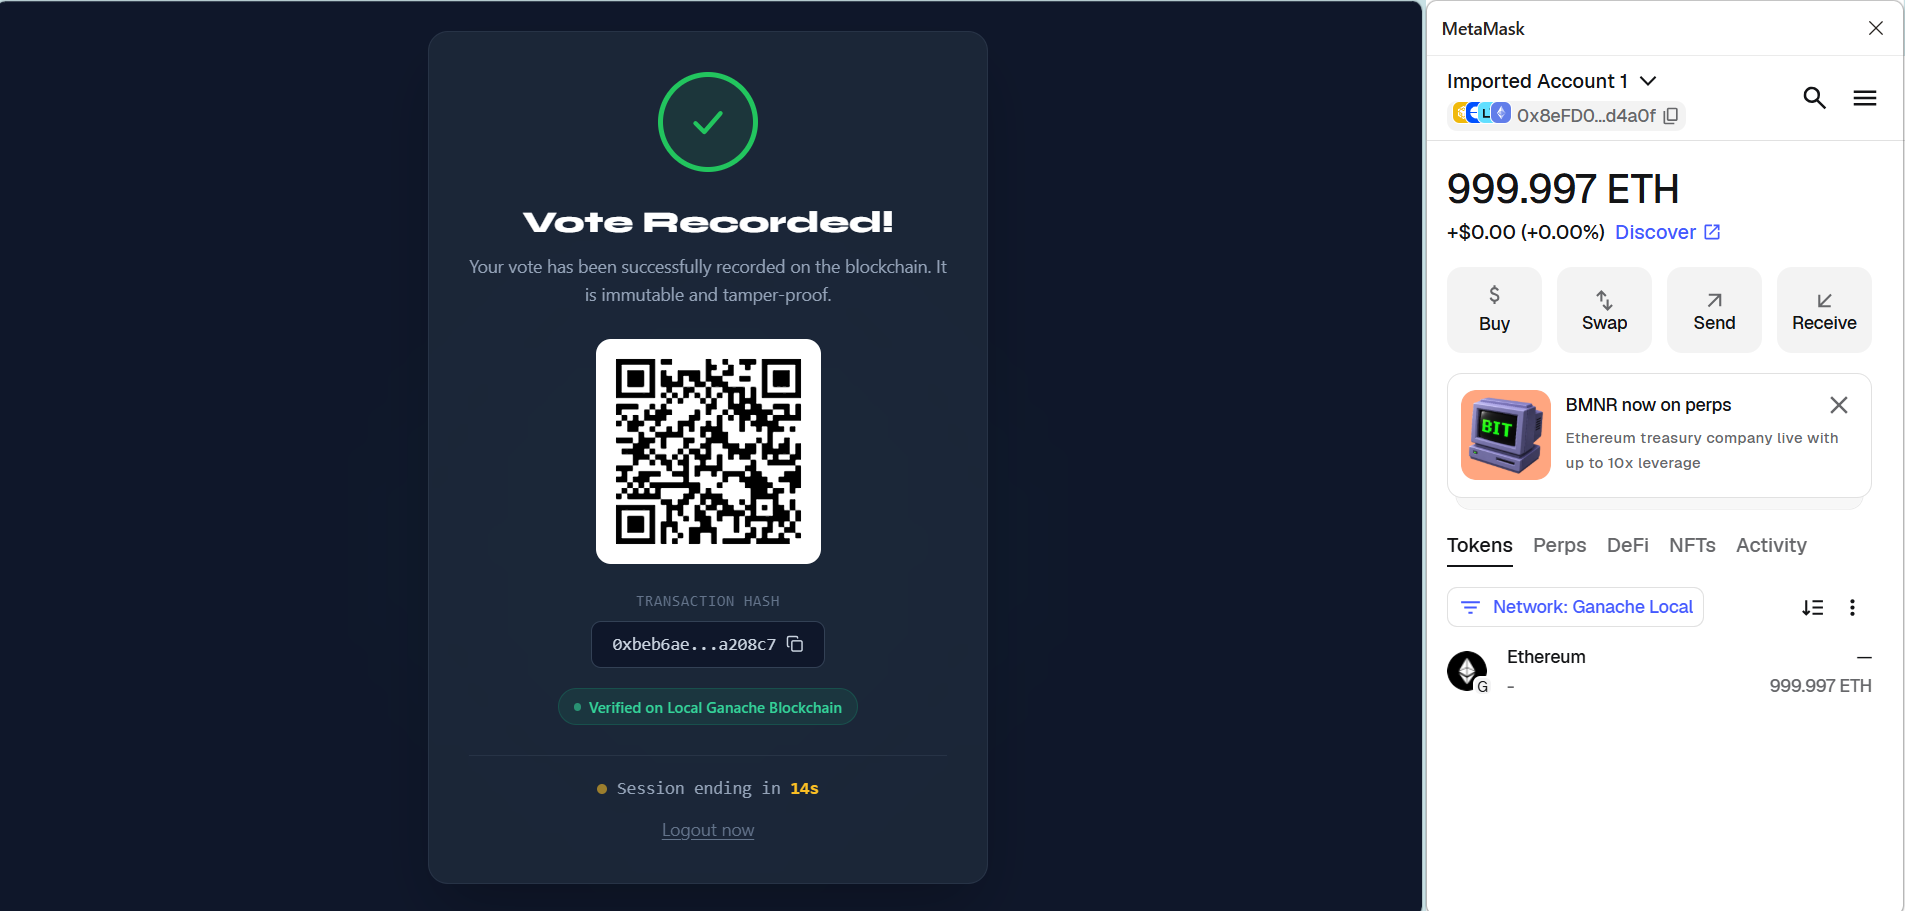
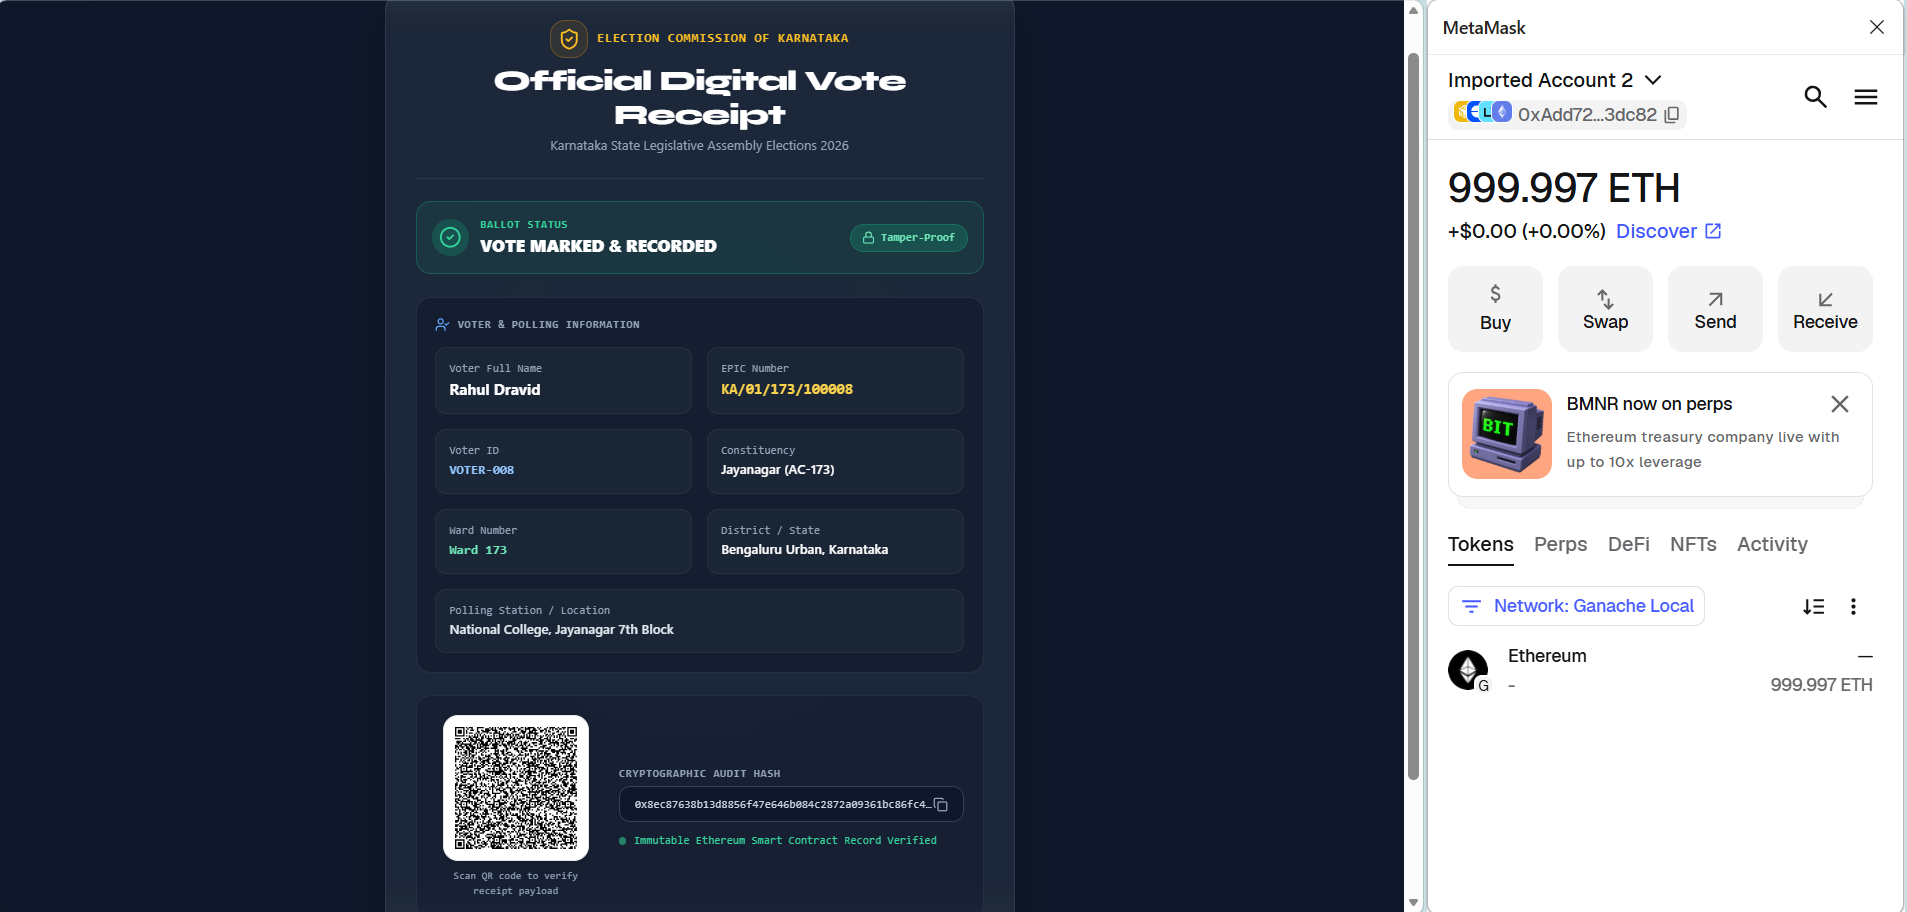
feat: implement voting and confirmation pages for ballot submission flow

diff --git a/voting-frontend/src/pages/ConfirmationPage.jsx b/voting-frontend/src/pages/ConfirmationPage.jsx
@@ -1,8 +1,9 @@
 import { useEffect, useState } from 'react';
 import { useNavigate, useLocation } from 'react-router-dom';
 import QRCode from 'react-qr-code';
-import { Copy, Check, ExternalLink } from 'lucide-react';
+import { Copy, Check, Printer, ShieldCheck, CheckCircle2, UserCheck, MapPin, Award, Building, Lock } from 'lucide-react';
 import toast from 'react-hot-toast';
+import api from '../services/api';
 import { useAuth } from '../context/AuthContext';
 import { truncateHash, copyToClipboard } from '../utils/helpers';
 
@@ -10,10 +11,24 @@ export default function ConfirmationPage() {
   const { state } = useLocation();
   const txHash = state?.txHash || 'N/A';
   const navigate = useNavigate();
-  const { logout } = useAuth();
+  const { logout, voterId } = useAuth();
 
-  const [countdown, setCountdown] = useState(30);
+  const [voterProfile, setVoterProfile] = useState(state?.voterProfile || null);
+  const [countdown, setCountdown] = useState(60);
   const [copied, setCopied] = useState(false);
+
+  useEffect(() => {
+    // If voterProfile was not passed in location state, fetch from backend
+    if (!voterProfile) {
+      api.get('/auth/me')
+        .then(res => {
+          if (res.data?.voter) {
+            setVoterProfile(res.data.voter);
+          }
+        })
+        .catch(err => console.error('Failed to fetch profile for receipt:', err));
+    }
+  }, [voterProfile]);
 
   useEffect(() => {
     if (countdown <= 0) {
@@ -29,98 +44,208 @@ export default function ConfirmationPage() {
     const ok = await copyToClipboard(txHash);
     if (ok) {
       setCopied(true);
-      toast.success('Copied to clipboard');
+      toast.success('Transaction Hash copied to clipboard');
       setTimeout(() => setCopied(false), 2000);
     }
   };
 
-  const explorerUrl = txHash !== 'N/A' && txHash !== 'ALREADY_VOTED'
-    ? `https://etherscan.io/tx/${txHash}`
-    : '#';
+  const handlePrint = () => {
+    window.print();
+  };
+
+  const voterName = voterProfile?.fullName || 'Registered Voter';
+  const epicNo = voterProfile?.epicNumber || `KA/01/172/${voterId || '100001'}`;
+  const vId = voterProfile?.voterId || voterId || 'VOTER-001';
+  const constituency = voterProfile?.booth?.constituency || 'BTM Layout (AC-172)';
+  const wardNo = voterProfile?.booth?.wardNumber || 'Ward 172';
+  const pollingStation = voterProfile?.booth?.location || 'St. John Auditorium, Koramangala';
+  const district = voterProfile?.booth?.district || 'Bengaluru Urban';
+  const stateName = voterProfile?.booth?.state || 'Karnataka';
+
+  // Structured human-readable payload for scanning QR Code
+  const qrTextPayload = [
+    '=== KARNATAKA STATE ELECTION COMMISSION ===',
+    'OFFICIAL DIGITAL E-VOTE RECEIPT',
+    '-------------------------------------------',
+    `Voter Name     : ${voterName}`,
+    `EPIC Number    : ${epicNo}`,
+    `Voter ID       : ${vId}`,
+    `Constituency   : ${constituency}`,
+    `Ward Number    : ${wardNo}`,
+    `Polling Station: ${pollingStation}`,
+    `District/State : ${district}, ${stateName}`,
+    '-------------------------------------------',
+    `Vote Status    : VOTE MARKED & CAST`,
+    `Tx Hash        : ${txHash}`,
+    `Issued Date    : ${new Date().toLocaleDateString()}`,
+    '===========================================',
+    'Verified & Recorded on Ethereum Blockchain'
+  ].join('\n');
 
   return (
-    <div className="min-h-screen bg-slate-900 flex items-center justify-center px-4 page-fade">
-      {/* Background */}
-      <div className="absolute inset-0 overflow-hidden pointer-events-none">
-        <div className="absolute top-1/3 left-1/2 -translate-x-1/2 w-96 h-96 bg-green-500/5 rounded-full blur-3xl" />
+    <div className="min-h-screen bg-slate-900 flex items-center justify-center px-4 py-8 page-fade">
+      {/* Background Glow */}
+      <div className="absolute inset-0 overflow-hidden pointer-events-none print:hidden">
+        <div className="absolute top-1/4 left-1/2 -translate-x-1/2 w-[500px] h-[500px] bg-emerald-500/5 rounded-full blur-3xl" />
       </div>
 
-      <div className="relative w-full max-w-md">
-        <div className="bg-slate-800/80 backdrop-blur-sm border border-slate-700/50 rounded-2xl p-8 shadow-2xl text-center">
-          {/* Animated checkmark */}
-          <div className="mb-6 flex justify-center">
-            <div className="animate-check-circle w-20 h-20 rounded-full border-4 border-green-500 flex items-center justify-center bg-green-500/10">
-              <svg className="w-10 h-10" viewBox="0 0 40 40" fill="none" xmlns="http://www.w3.org/2000/svg">
-                <path
-                  className="animate-checkmark-draw"
-                  d="M10 21 L17 28 L30 13"
-                  stroke="#22c55e"
-                  strokeWidth="3.5"
-                  strokeLinecap="round"
-                  strokeLinejoin="round"
-                />
-              </svg>
+      <div className="relative w-full max-w-2xl">
+        {/* Main Receipt Card */}
+        <div className="bg-slate-800/90 backdrop-blur-md border border-slate-700/60 rounded-3xl p-6 sm:p-8 shadow-2xl print:bg-white print:text-black print:border-black print:shadow-none">
+          
+          {/* Header */}
+          <div className="border-b border-slate-700/60 pb-6 mb-6 text-center print:border-black">
+            <div className="flex items-center justify-center gap-2.5 mb-2">
+              <div className="w-10 h-10 rounded-2xl bg-amber-500/10 border border-amber-500/30 flex items-center justify-center shrink-0 print:hidden">
+                <ShieldCheck className="w-6 h-6 text-amber-400" />
+              </div>
+              <h2 className="text-sm font-bold tracking-wider text-amber-400 uppercase font-mono print:text-black">
+                Election Commission of Karnataka
+              </h2>
+            </div>
+            <h1 className="text-2xl sm:text-3xl font-black text-white tracking-tight" style={{ fontFamily: 'Syne, sans-serif' }}>
+              Official Digital Vote Receipt
+            </h1>
+            <p className="text-slate-400 text-xs sm:text-sm mt-1 print:text-gray-600">
+              Karnataka State Legislative Assembly Elections 2026
+            </p>
+          </div>
+
+          {/* Status Banner */}
+          <div className="bg-emerald-500/10 border border-emerald-500/30 rounded-2xl p-4 mb-6 flex items-center justify-between gap-4 print:border-emerald-700 print:bg-emerald-50">
+            <div className="flex items-center gap-3">
+              <div className="w-10 h-10 rounded-full bg-emerald-500/20 flex items-center justify-center text-emerald-400 shrink-0">
+                <CheckCircle2 className="w-6 h-6" />
+              </div>
+              <div>
+                <span className="text-xs uppercase tracking-wider font-bold text-emerald-400 font-mono block print:text-emerald-800">
+                  Ballot Status
+                </span>
+                <span className="text-base sm:text-lg font-extrabold text-white print:text-black">
+                  {txHash === 'ALREADY_VOTED' ? 'VOTE ALREADY RECORDED' : 'VOTE MARKED & RECORDED'}
+                </span>
+              </div>
+            </div>
+            <div className="hidden sm:flex items-center gap-1.5 bg-emerald-500/20 text-emerald-300 text-xs px-3 py-1.5 rounded-full font-mono font-semibold border border-emerald-500/30">
+              <Lock className="w-3.5 h-3.5" />
+              Tamper-Proof
             </div>
           </div>
 
-          <h1 className="text-2xl font-extrabold text-white mb-2" style={{ fontFamily: 'Syne, sans-serif' }}>
-            {txHash === 'ALREADY_VOTED' ? 'Already Voted' : 'Vote Recorded!'}
-          </h1>
-          <p className="text-slate-400 text-sm mb-6 leading-relaxed">
-            {txHash === 'ALREADY_VOTED'
-              ? 'Your vote has already been recorded on the blockchain.'
-              : 'Your vote has been successfully recorded on the blockchain. It is immutable and tamper-proof.'
-            }
-          </p>
+          {/* Receipt Details Grid */}
+          <div className="bg-slate-900/60 border border-slate-700/50 rounded-2xl p-5 mb-6 print:bg-gray-50 print:border-gray-300">
+            <h3 className="text-xs font-mono uppercase tracking-wider text-slate-400 mb-4 font-bold flex items-center gap-2 print:text-gray-700">
+              <UserCheck className="w-4 h-4 text-blue-400" />
+              Voter & Polling Information
+            </h3>
 
-          {/* QR Code */}
-          {txHash !== 'N/A' && txHash !== 'ALREADY_VOTED' && (
-            <div className="bg-white p-4 rounded-xl inline-block mb-4">
-              <QRCode value={txHash} size={148} />
+            <div className="grid grid-cols-1 sm:grid-cols-2 gap-4 text-sm">
+              <div className="bg-slate-800/60 p-3.5 rounded-xl border border-slate-700/40 print:bg-white print:border-gray-200">
+                <span className="text-slate-400 text-xs block mb-0.5 font-mono print:text-gray-500">Voter Full Name</span>
+                <strong className="text-white text-base font-bold print:text-black">{voterName}</strong>
+              </div>
+
+              <div className="bg-slate-800/60 p-3.5 rounded-xl border border-slate-700/40 print:bg-white print:border-gray-200">
+                <span className="text-slate-400 text-xs block mb-0.5 font-mono print:text-gray-500">EPIC Number</span>
+                <strong className="text-amber-300 text-base font-mono font-bold print:text-black">{epicNo}</strong>
+              </div>
+
+              <div className="bg-slate-800/60 p-3.5 rounded-xl border border-slate-700/40 print:bg-white print:border-gray-200">
+                <span className="text-slate-400 text-xs block mb-0.5 font-mono print:text-gray-500">Voter ID</span>
+                <strong className="text-blue-300 font-mono font-semibold print:text-black">{vId}</strong>
+              </div>
+
+              <div className="bg-slate-800/60 p-3.5 rounded-xl border border-slate-700/40 print:bg-white print:border-gray-200">
+                <span className="text-slate-400 text-xs block mb-0.5 font-mono print:text-gray-500">Constituency</span>
+                <strong className="text-white font-semibold print:text-black">{constituency}</strong>
+              </div>
+
+              <div className="bg-slate-800/60 p-3.5 rounded-xl border border-slate-700/40 print:bg-white print:border-gray-200">
+                <span className="text-slate-400 text-xs block mb-0.5 font-mono print:text-gray-500">Ward Number</span>
+                <strong className="text-emerald-300 font-mono font-semibold print:text-black">{wardNo}</strong>
+              </div>
+
+              <div className="bg-slate-800/60 p-3.5 rounded-xl border border-slate-700/40 print:bg-white print:border-gray-200">
+                <span className="text-slate-400 text-xs block mb-0.5 font-mono print:text-gray-500">District / State</span>
+                <strong className="text-white font-semibold print:text-black">{district}, {stateName}</strong>
+              </div>
+
+              <div className="bg-slate-800/60 p-3.5 rounded-xl border border-slate-700/40 sm:col-span-2 print:bg-white print:border-gray-200">
+                <span className="text-slate-400 text-xs block mb-0.5 font-mono print:text-gray-500">Polling Station / Location</span>
+                <strong className="text-slate-200 font-medium print:text-black">{pollingStation}</strong>
+              </div>
             </div>
-          )}
+          </div>
 
-          {/* Transaction hash */}
-          {txHash !== 'ALREADY_VOTED' && txHash !== 'N/A' && (
-            <div className="mb-4">
-              <p className="text-slate-500 text-xs uppercase tracking-wider font-mono mb-2">Transaction Hash</p>
-              <button
-                onClick={handleCopy}
-                className="flex items-center justify-center gap-2 mx-auto bg-slate-900 border border-slate-700 rounded-lg px-4 py-2 font-mono text-sm text-slate-300 hover:text-white hover:border-slate-500 transition-all"
-              >
-                <span>{truncateHash(txHash)}</span>
-                {copied ? <Check className="w-3.5 h-3.5 text-green-400" /> : <Copy className="w-3.5 h-3.5" />}
-              </button>
-            </div>
-          )}
-
-          {/* Explorer link */}
-          {txHash !== 'N/A' && txHash !== 'ALREADY_VOTED' && (
-            <div className="mb-6">
-              <span className="inline-flex items-center gap-1.5 px-3 py-1.5 rounded-full text-xs font-medium bg-emerald-500/10 text-emerald-400 border border-emerald-500/20">
-                <span className="w-1.5 h-1.5 rounded-full bg-emerald-400 animate-pulse" />
-                Verified on Local Ganache Blockchain
+          {/* QR Code & Verification Block */}
+          <div className="grid grid-cols-1 sm:grid-cols-3 gap-6 items-center bg-slate-900/40 border border-slate-700/40 rounded-2xl p-5 mb-6 print:bg-white print:border-gray-300">
+            {/* QR Container */}
+            <div className="flex flex-col items-center justify-center text-center">
+              <div className="bg-white p-3 rounded-2xl shadow-lg border border-slate-200 inline-block mb-2">
+                <QRCode value={qrTextPayload} size={130} />
+              </div>
+              <span className="text-[11px] font-mono text-slate-400 print:text-gray-600">
+                Scan QR code to verify receipt payload
               </span>
             </div>
-          )}
 
-          {/* Countdown */}
-          <div className="border-t border-slate-700/50 pt-4 mt-4">
-            <div className="flex items-center justify-center gap-2">
-              <div className="w-2 h-2 bg-amber-400 rounded-full animate-pulse" />
-              <p className="text-slate-400 text-sm font-mono">
-                Session ending in <span className="text-amber-400 font-bold">{countdown}s</span>
-              </p>
+            {/* Blockchain Audit Trail */}
+            <div className="sm:col-span-2 space-y-3">
+              <div>
+                <span className="text-xs uppercase tracking-wider text-slate-400 font-mono font-bold block mb-1.5 print:text-gray-600">
+                  Cryptographic Audit Hash
+                </span>
+                {txHash !== 'ALREADY_VOTED' && txHash !== 'N/A' ? (
+                  <button
+                    onClick={handleCopy}
+                    className="w-full flex items-center justify-between bg-slate-900 border border-slate-700 hover:border-slate-500 rounded-xl px-4 py-2.5 font-mono text-xs text-slate-300 transition-all print:bg-gray-100 print:text-black print:border-gray-300"
+                  >
+                    <span className="truncate">{txHash}</span>
+                    {copied ? <Check className="w-4 h-4 text-emerald-400 shrink-0" /> : <Copy className="w-4 h-4 text-slate-400 shrink-0" />}
+                  </button>
+                ) : (
+                  <div className="bg-slate-900 border border-slate-700 rounded-xl px-4 py-2.5 font-mono text-xs text-emerald-400">
+                    Verified on Blockchain Ledger
+                  </div>
+                )}
+              </div>
+
+              <div className="flex items-center gap-2">
+                <span className="w-2 h-2 rounded-full bg-emerald-400 animate-pulse" />
+                <span className="text-xs text-emerald-400 font-mono font-medium print:text-emerald-800">
+                  Immutable Ethereum Smart Contract Record Verified
+                </span>
+              </div>
             </div>
-            <button
-              onClick={() => { logout(); navigate('/login'); }}
-              className="mt-3 text-slate-500 hover:text-white text-sm transition-colors underline underline-offset-2"
-            >
-              Logout now
-            </button>
           </div>
+
+          {/* Action Buttons & Session Timer */}
+          <div className="flex flex-col sm:flex-row items-center justify-between gap-4 pt-2 border-t border-slate-700/50 print:hidden">
+            <button
+              onClick={handlePrint}
+              className="w-full sm:w-auto flex items-center justify-center gap-2 bg-slate-700 hover:bg-slate-600 text-white font-semibold text-sm px-6 py-3 rounded-xl transition-all shadow-md"
+            >
+              <Printer className="w-4 h-4 text-amber-400" />
+              Print / Save Official Receipt
+            </button>
+
+            <div className="flex items-center gap-4 text-xs font-mono text-slate-400">
+              <span className="flex items-center gap-1.5">
+                <span className="w-1.5 h-1.5 bg-amber-400 rounded-full animate-pulse" />
+                Session auto-close: <strong className="text-amber-400">{countdown}s</strong>
+              </span>
+              <button
+                onClick={() => { logout(); navigate('/login'); }}
+                className="text-slate-400 hover:text-white underline underline-offset-2 transition-colors"
+              >
+                Logout Now
+              </button>
+            </div>
+          </div>
+
         </div>
       </div>
     </div>
   );
 }
+

diff --git a/voting-frontend/src/pages/VotingPage.jsx b/voting-frontend/src/pages/VotingPage.jsx
@@ -52,12 +52,12 @@ export default function VotingPage() {
     setSubmitting(true);
     try {
       const res = await api.post('/vote', { candidateId: selectedId });
-      navigate('/confirmation', { state: { txHash: res.data.txHash || res.data.transactionHash || 'N/A' } });
+      navigate('/confirmation', { state: { txHash: res.data.txHash || res.data.transactionHash || 'N/A', voterProfile } });
     } catch (err) {
       const status = err.response?.status;
       const msg = err.response?.data?.message || '';
       if (status === 403 && msg.toLowerCase().includes('already')) {
-        navigate('/confirmation', { state: { txHash: 'ALREADY_VOTED' } });
+        navigate('/confirmation', { state: { txHash: 'ALREADY_VOTED', voterProfile } });
       } else if (status === 403 && msg.toLowerCase().includes('booth')) {
         toast.error('You are not assigned to this booth');
         setShowModal(false);
